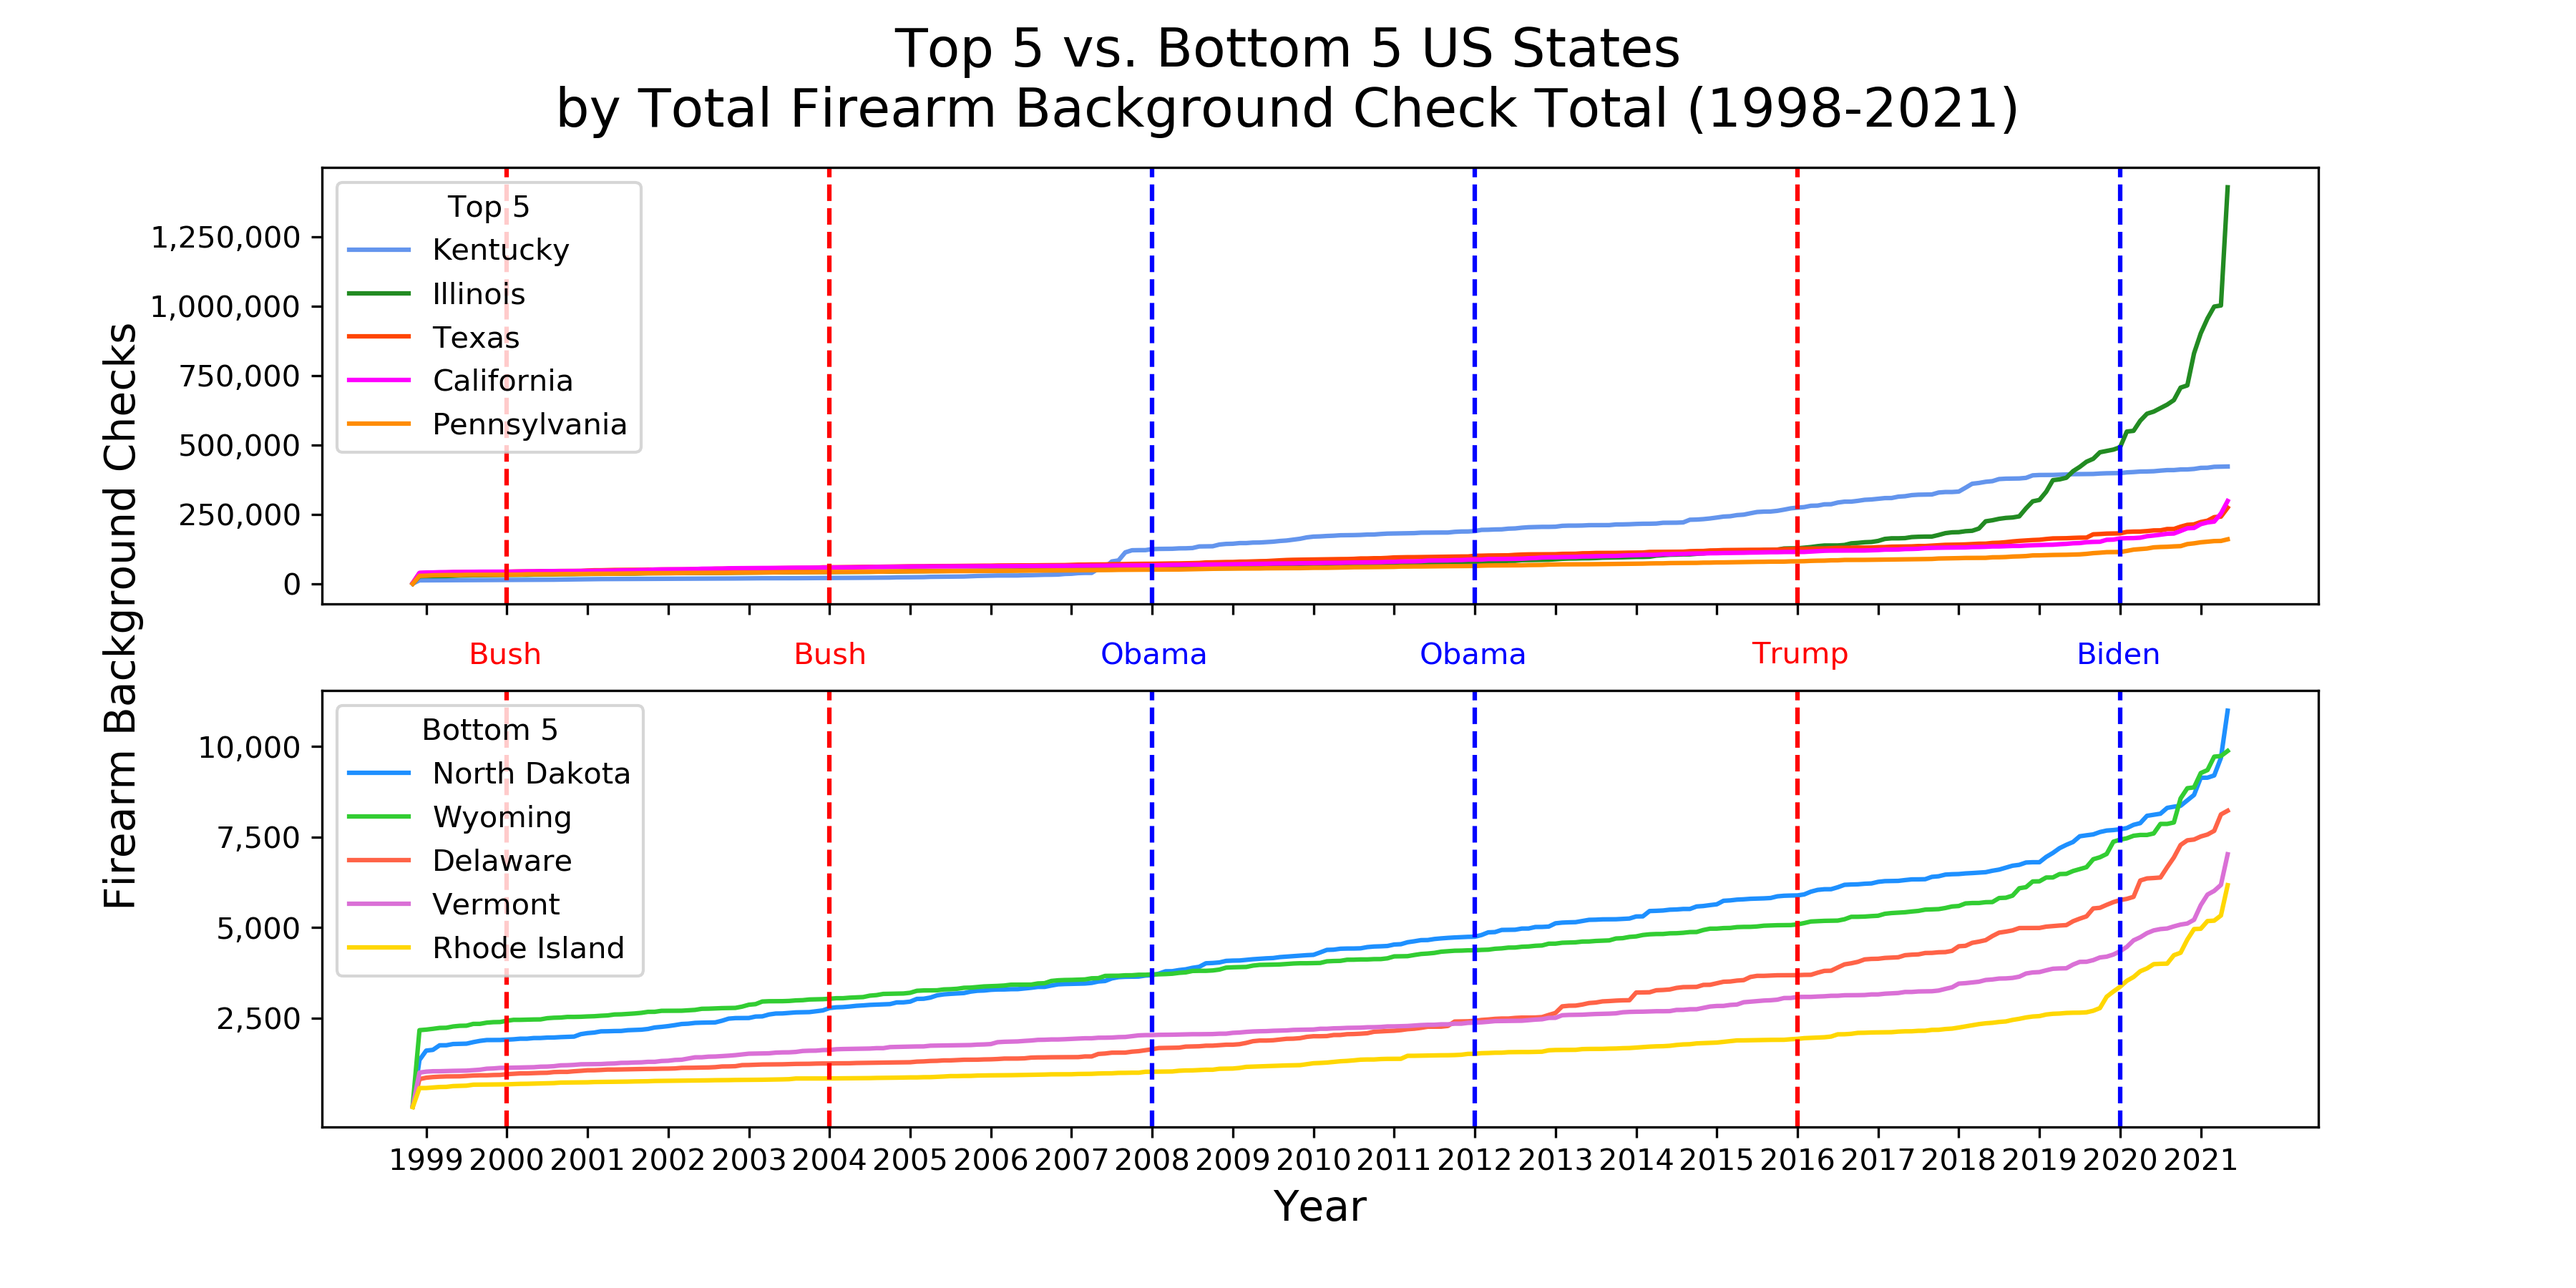
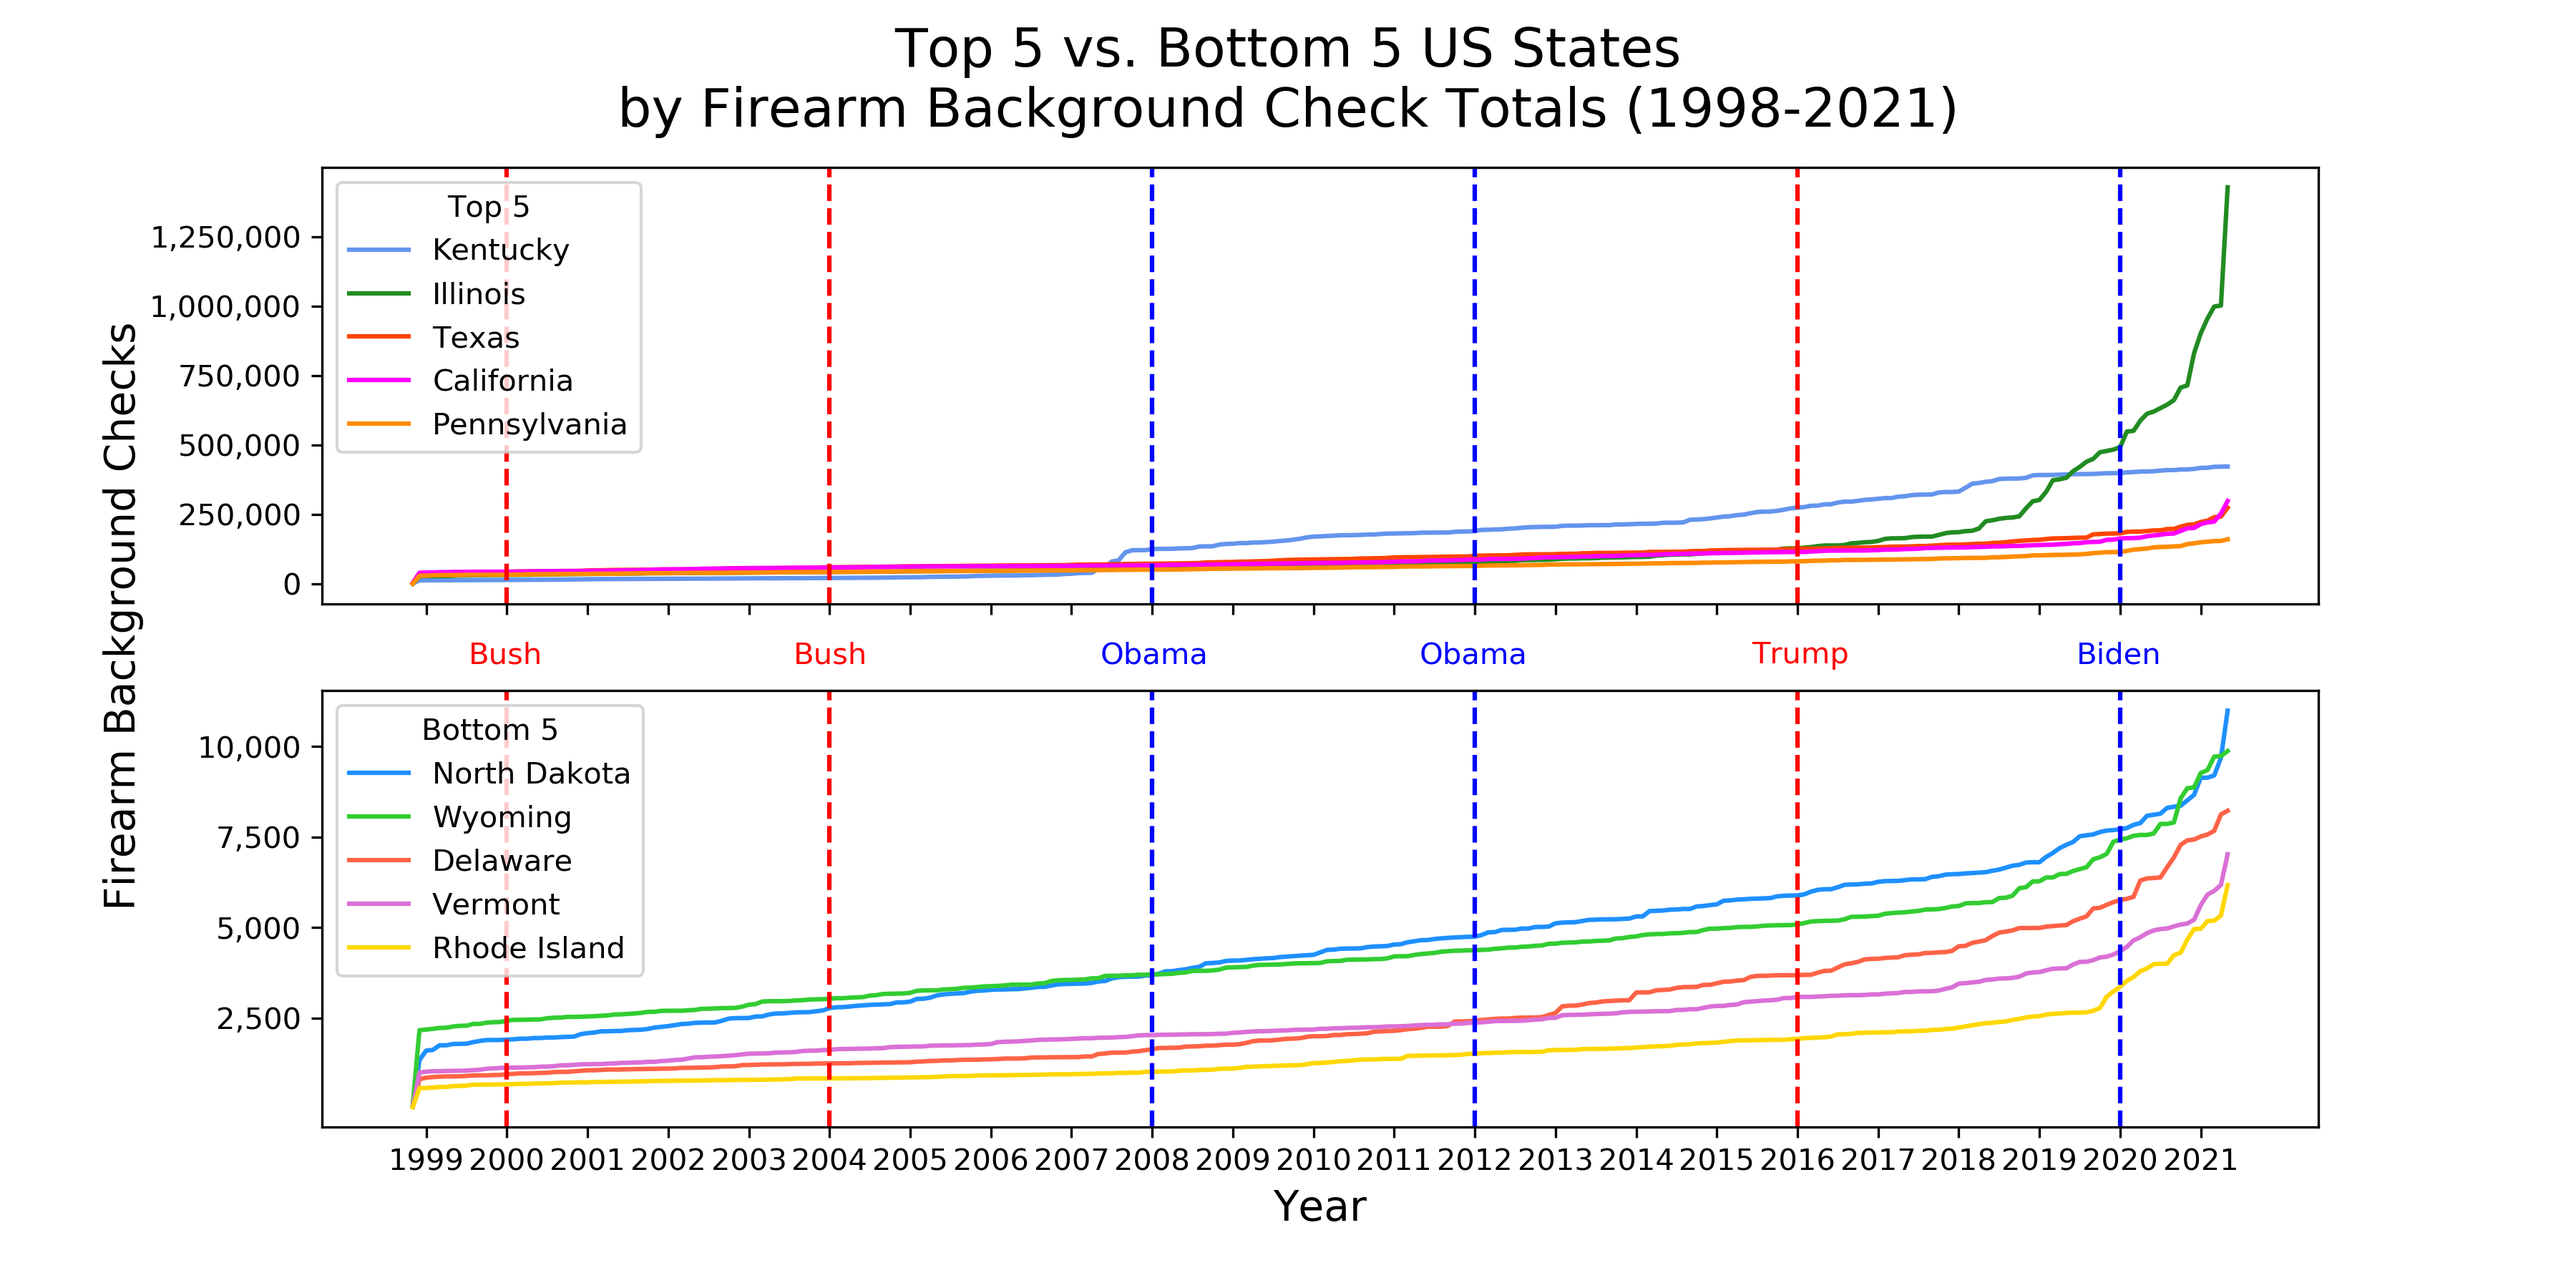
Fix plot1 title

Changed region(s): [[0.2178, 0.0622, 0.7778, 0.1244]]

diff --git a/matplotlib2_examples.py b/matplotlib2_examples.py
@@ -106,7 +106,7 @@ bottom5_totals.index = time_index
 fig, [ax0, ax1] = plt.subplots(2, 1, figsize=(12,6), sharex=True)
 
 # super title is placed on the Figure object (covers entire figure because of the multiple plots)
-fig.suptitle('Top 5 vs. Bottom 5 US States\nby Total Firearm Background Check Total (1998-2021)', fontsize=18)
+fig.suptitle('Top 5 vs. Bottom 5 US States\nby Firearm Background Check Totals (1998-2021)', fontsize=18)
 fig.subplots_adjust(top=0.87)  # make room for fig title
 
 # set line colors
